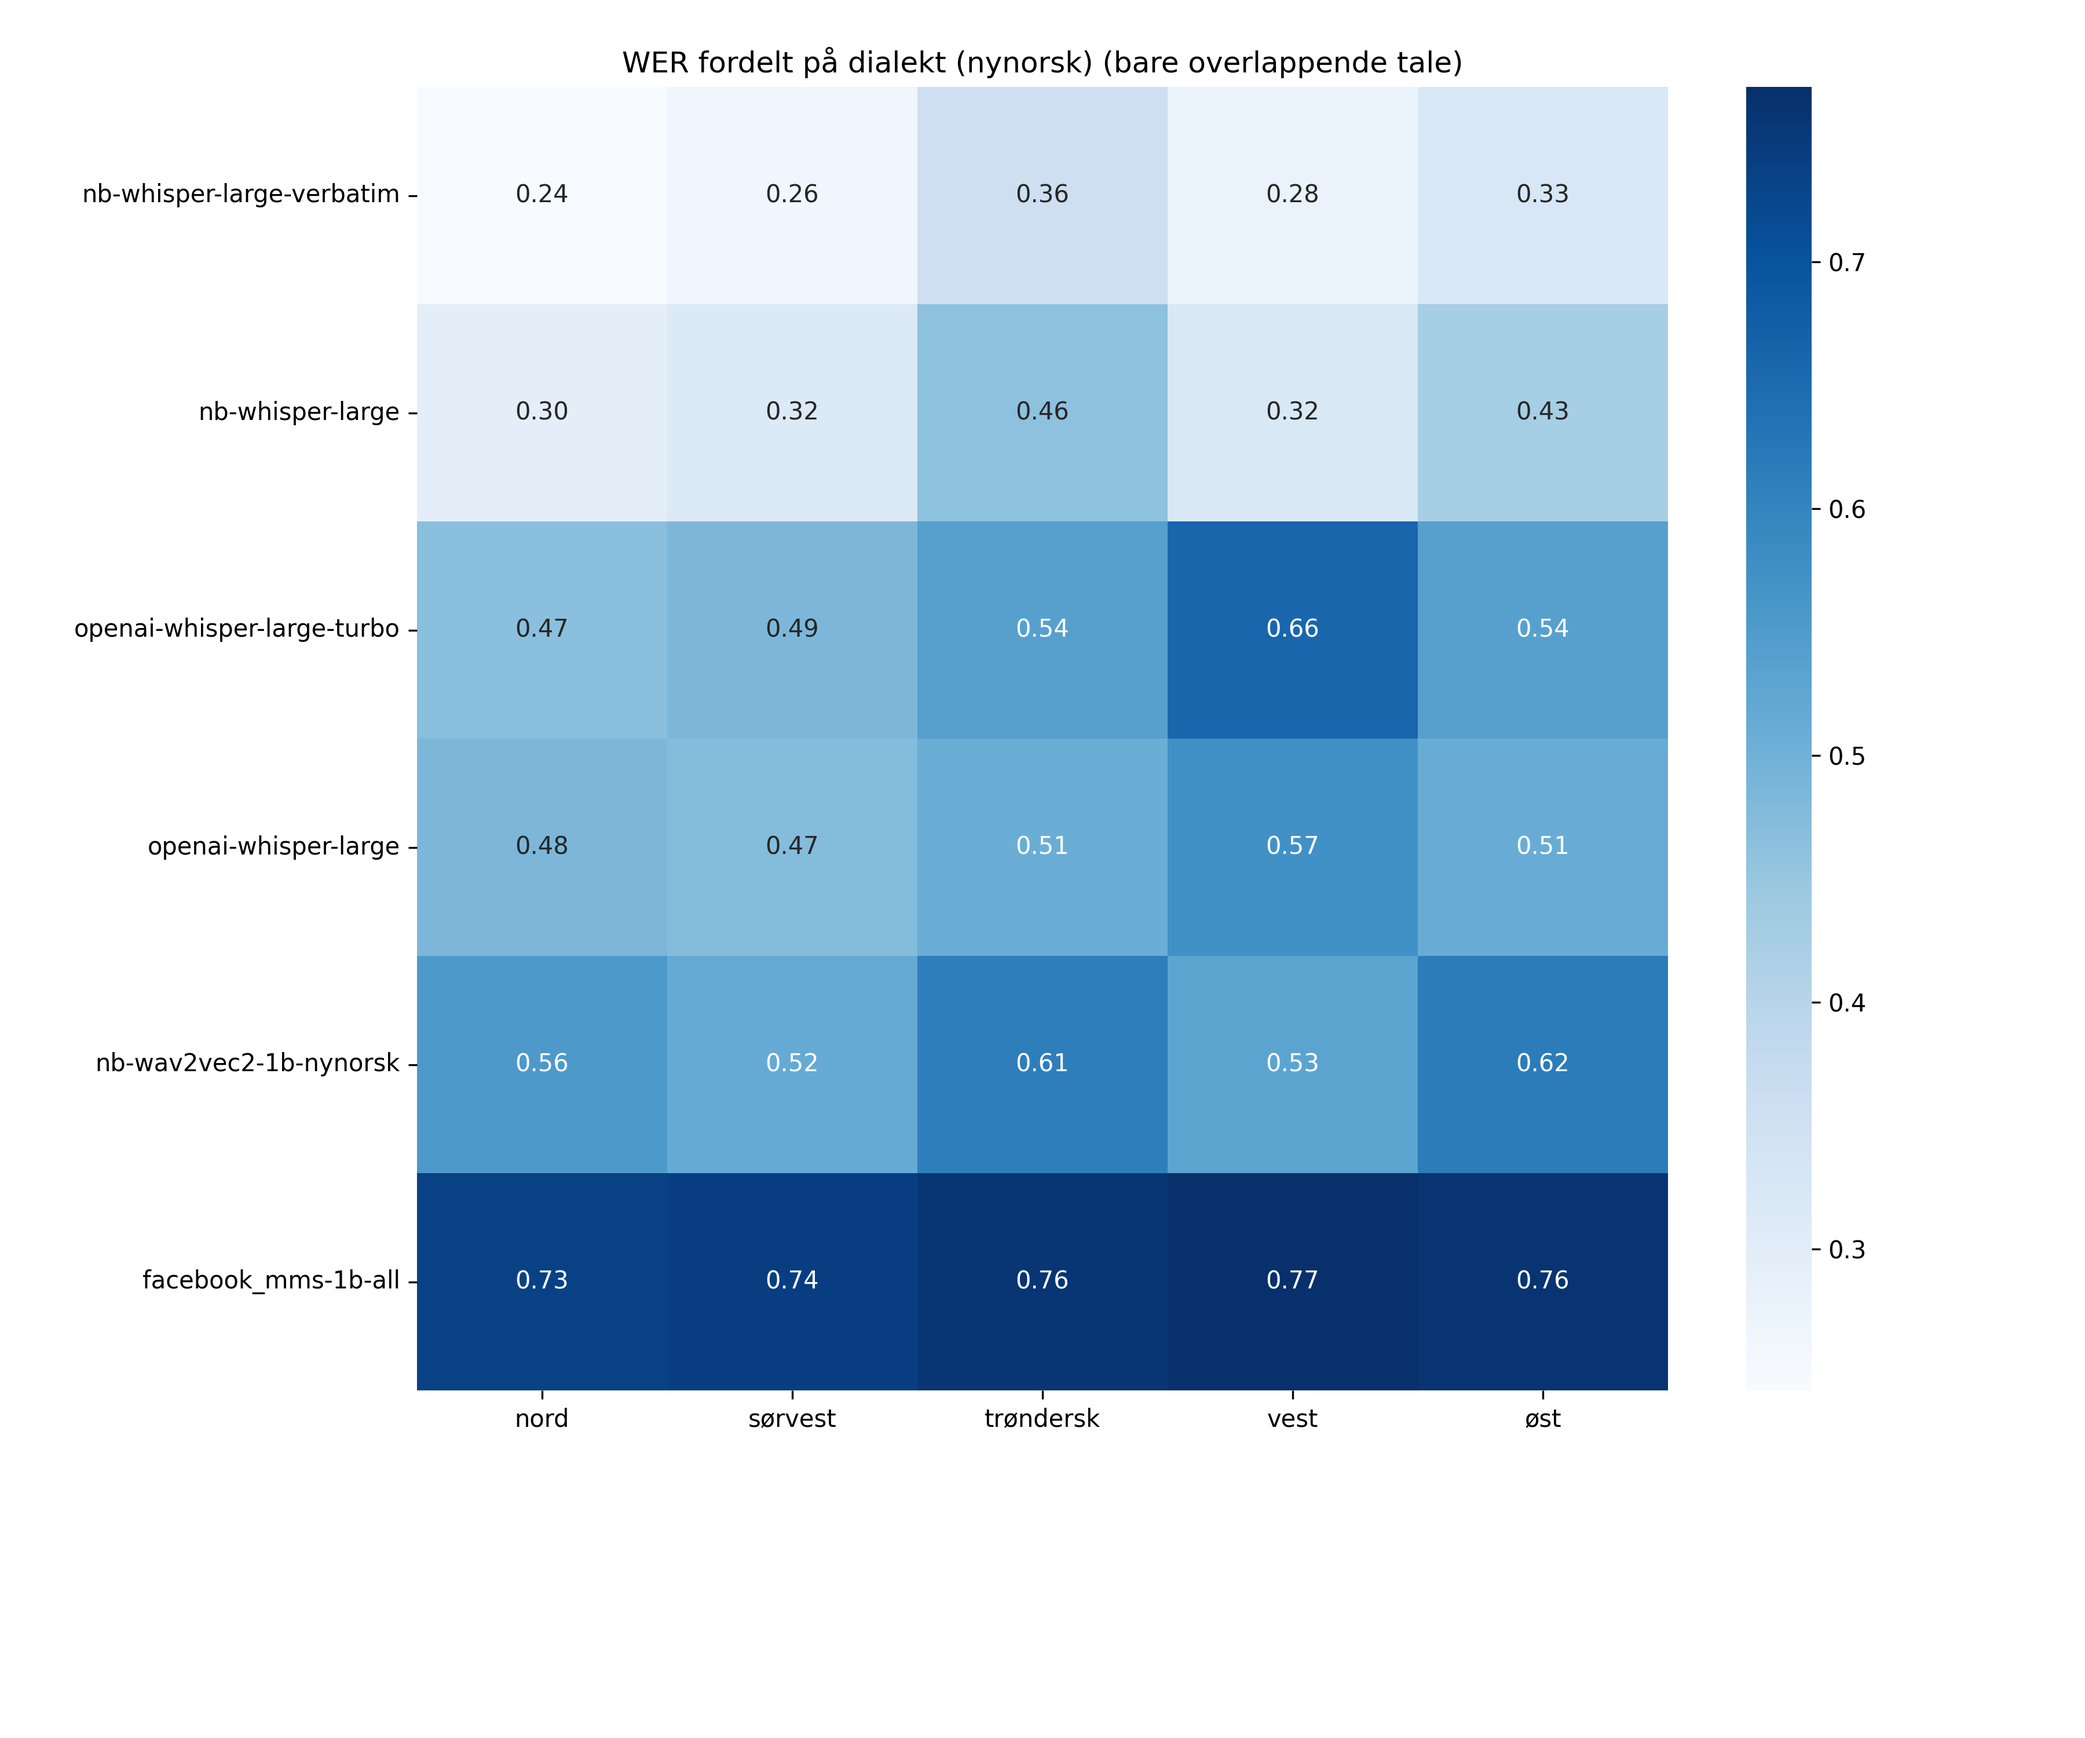
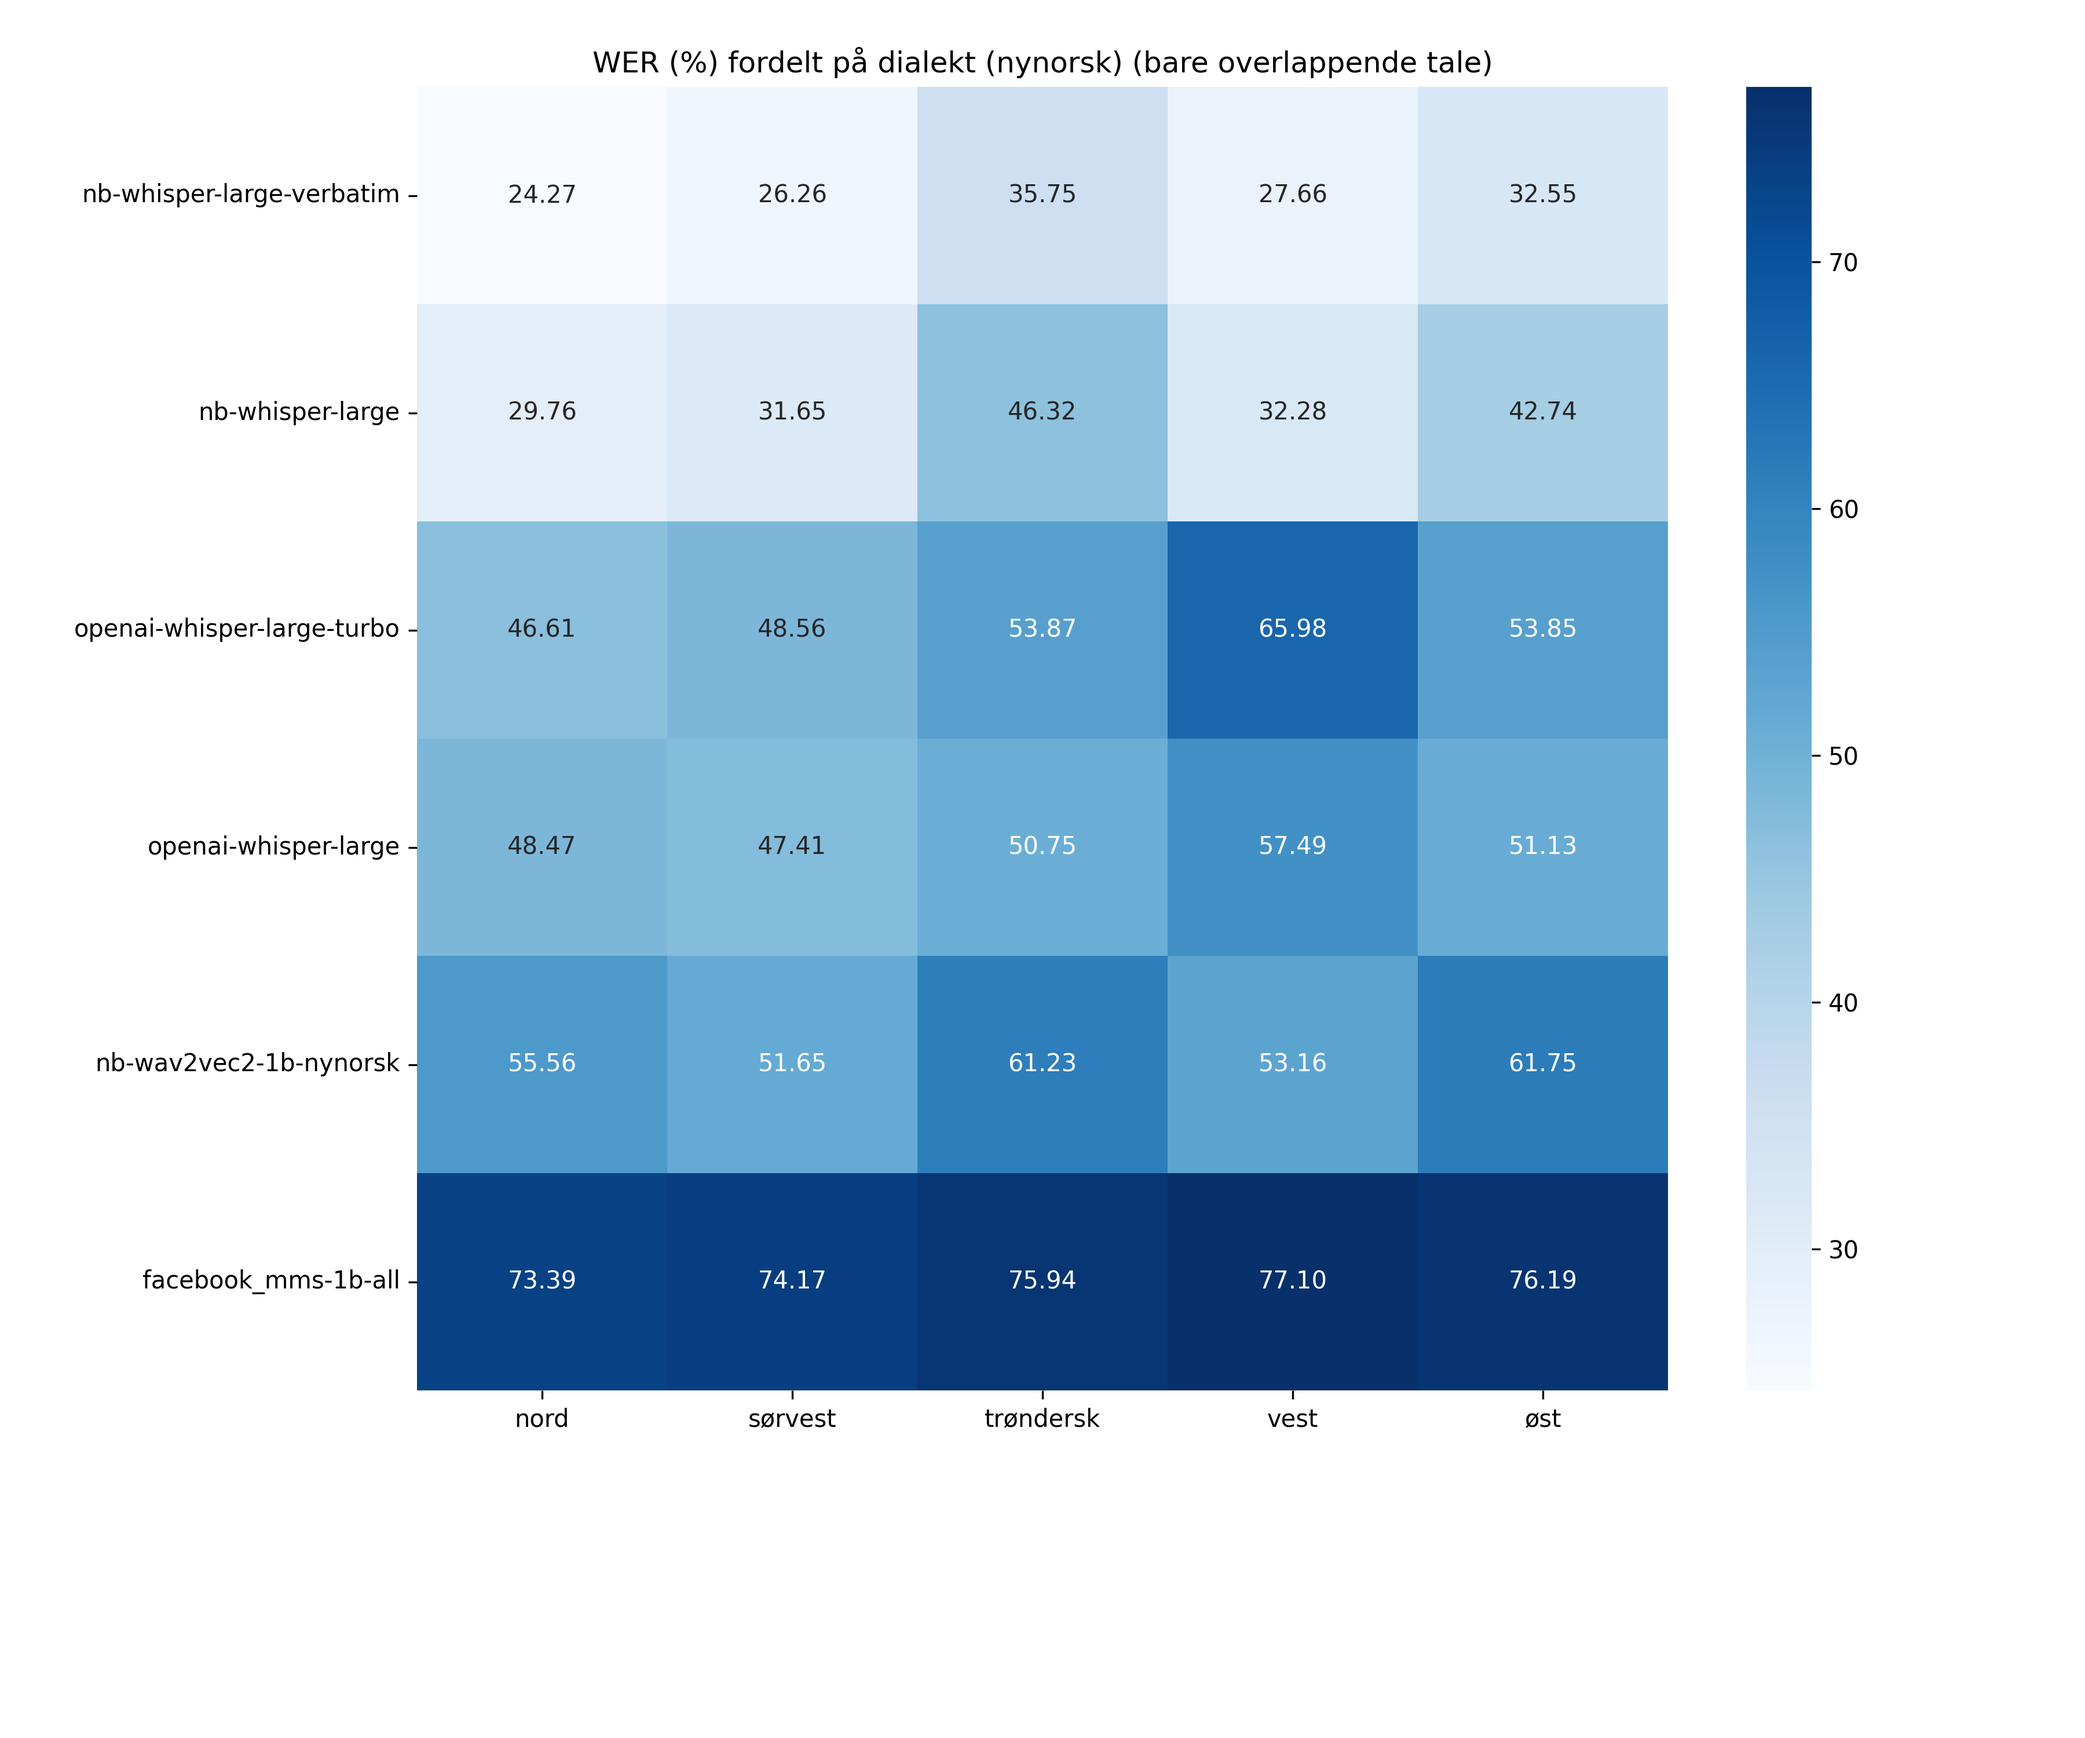
In plots, show WER and CER as percentage scores, not decimal

diff --git a/notebooks/notebook_utils.py b/notebooks/notebook_utils.py
@@ -150,14 +150,21 @@ def make_plot(
     }
 
     viz_df = df[df.språk == language].copy()
+
+    metric_str = metric
+
+    # Prosentscore, ikke desimalscore for cer og wer
+    if metric in ["CER", "WER"]:
+        viz_df[metric] = viz_df[metric] * 100
+        metric_str = f"{metric_str} (%)"
+
     plt.figure(figsize=figsize)
     plt.title(
-        f"{metric} fordelt på {label_map.get(feature, feature)} {label_map[language]}{title_text}",
+        f"{metric_str} fordelt på {label_map.get(feature, feature)} {label_map[language]}{title_text}",
     )
 
     match plot_type:
         case "barchart":
-            viz_df[metric] = viz_df[metric] * 100
             score_display_range = list(range(10, 100, 10))
             sns.barplot(
                 x="modell",
